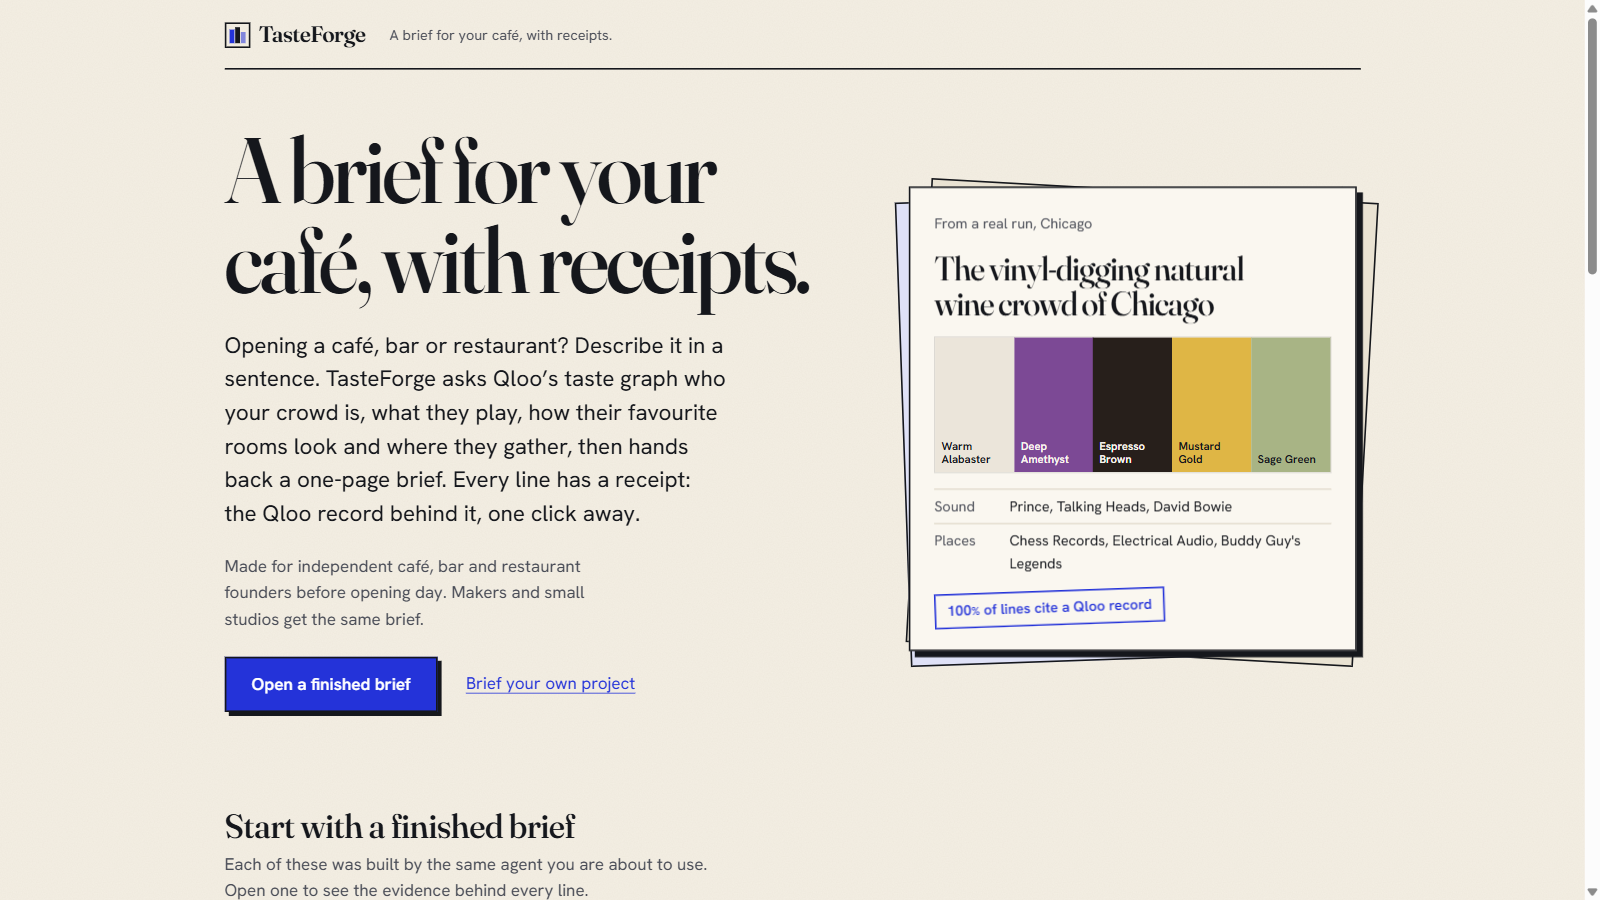
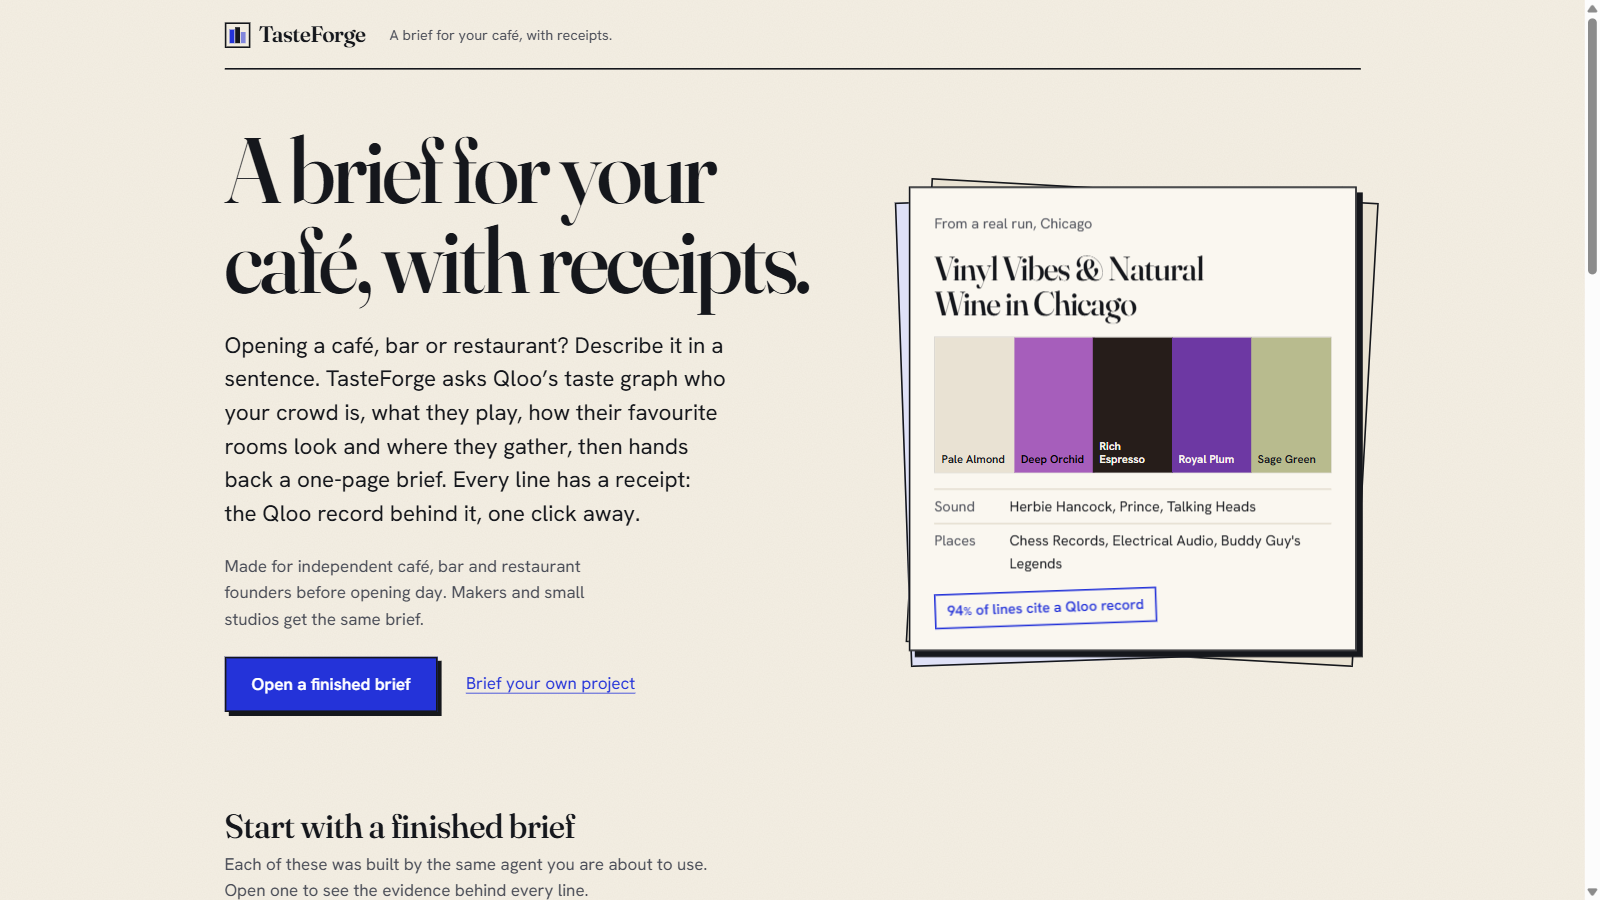
fix: palette captions never show dish tags; repair Qloo's broken possessives
Qloo returns specialty-dish tags such as "Buddy S Burger" (a signature
dish at Buddy Guy's Legends). They stay valid colour cues, but are no
longer shown as style captions; captions fall back to the cited decor and
ambience tags, and possessives are displayed correctly.

Changed region(s): [[0.5625, 0.28, 0.7812, 0.5289], [0.625, 0.56, 0.7812, 0.5911], [0.5938, 0.6533, 0.75, 0.6844]]

diff --git a/src/ui/paletteCaptions.ts b/src/ui/paletteCaptions.ts
@@ -1,11 +1,23 @@
 import { isNameLike, nameKey } from "@/lib/agent/colour/cues";
+import { fixPossessive } from "@/lib/qloo/displayName";
 import type { Evidence, Swatch } from "./contract";
 
 /** Most tags shown under one swatch. */
 export const CAPTION_TAGS = 2;
 
 const STYLE_PREFIXES = ["urn:tag:decor:", "urn:tag:ambience:"];
+/** Dish tags name a venue's signature plate ("Buddy S Burger"): fine as a colour cue, misleading as a style caption. */
+const DISH_PREFIXES = ["urn:tag:specialty_dish:"];
 const norm = (s: string): string => s.trim().toLowerCase();
+
+/** Names of the dish tags in the records a swatch cites. */
+function dishNames(swatch: Pick<Swatch, "evidence">, evidence: Readonly<Record<string, Evidence>>): Set<string> {
+  const out = new Set<string>();
+  for (const id of swatch.evidence) {
+    for (const t of evidence[id]?.tags ?? []) if (DISH_PREFIXES.some((p) => t.id.startsWith(p))) out.add(nameKey(t.name));
+  }
+  return out;
+}
 
 /** Names of the decor and ambience tags in the records a swatch cites (the tags that drive colour most directly). */
 function styleNames(swatch: Pick<Swatch, "evidence">, evidence: Readonly<Record<string, Evidence>>): Set<string> {
@@ -23,7 +35,15 @@ function styleNames(swatch: Pick<Swatch, "evidence">, evidence: Readonly<Record<
 function tagCaptionsOnly(swatch: Pick<Swatch, "tags" | "evidence">, evidence: Readonly<Record<string, Evidence>>): string[] {
   const entityNames = new Set(Object.values(evidence).flatMap((r) => (r.entities ?? []).map((e) => nameKey(e.name))));
   const cited = new Set(swatch.evidence.flatMap((id) => (evidence[id]?.tags ?? []).map((t) => nameKey(t.name))));
-  return (swatch.tags ?? []).filter((t) => (cited.size === 0 || cited.has(nameKey(t))) && !isNameLike(t, entityNames));
+  const dishes = dishNames(swatch, evidence);
+  return (swatch.tags ?? [])
+    .filter((t) => (cited.size === 0 || cited.has(nameKey(t))) && !isNameLike(t, entityNames) && !dishes.has(nameKey(t)))
+    .map(fixPossessive);
+}
+
+/** Style tag names (original casing) from the records a swatch cites: the fallback when no swatch tag qualifies. */
+function citedStyleTags(swatch: Pick<Swatch, "evidence">, evidence: Readonly<Record<string, Evidence>>): string[] {
+  return swatch.evidence.flatMap((id) => (evidence[id]?.tags ?? []).filter((t) => STYLE_PREFIXES.some((p) => t.id.startsWith(p))).map((t) => fixPossessive(t.name)));
 }
 
 /**
@@ -36,7 +56,8 @@ export function swatchCaptions(palette: readonly Pick<Swatch, "tags" | "evidence
   const shown = new Set<string>();
   return palette.map((s) => {
     const style = styleNames(s, evidence);
-    const tags = tagCaptionsOnly(s, evidence);
+    const own = tagCaptionsOnly(s, evidence);
+    const tags = own.length > 0 ? own : citedStyleTags(s, evidence);
     const ordered = [...tags.filter((t) => style.has(norm(t))), ...tags.filter((t) => !style.has(norm(t)))];
     const fresh = ordered.filter((t) => !used.has(norm(t)));
     const picked = fresh.slice(0, CAPTION_TAGS);

diff --git a/src/ui/__tests__/paletteCaptions.test.ts b/src/ui/__tests__/paletteCaptions.test.ts
@@ -30,6 +30,28 @@ describe("swatchCaptions tag-only", () => {
     const [caption] = swatchCaptions([{ tags: ["Buddy's Burger", "Smoke House", "Steak", "Industrial"], evidence: ["ev_1"] }], ev);
     expect(caption).toEqual(["Industrial", "Steak"]);
   });
+
+  it("never captions with a dish tag, even in Qloo's own spelling ('Buddy S Burger')", () => {
+    const ev = {
+      ev_1: record("ev_1", [
+        ["urn:tag:specialty_dish:place:buddy_s_burger", "Buddy S Burger"],
+        ["urn:tag:cuisine:steak", "Steak"],
+      ]),
+    } as Record<string, Evidence>;
+    const [caption] = swatchCaptions([{ tags: ["Buddy S Burger", "Steak"], evidence: ["ev_1"] }], ev);
+    expect(caption).toEqual(["Steak"]);
+  });
+
+  it("falls back to the cited decor and ambience tags when no swatch tag qualifies", () => {
+    const ev = {
+      ev_1: record("ev_1", [
+        ["urn:tag:specialty_dish:place:buddy_s_burger", "Buddy S Burger"],
+        ["urn:tag:ambience:cozy", "Cozy"],
+      ]),
+    } as Record<string, Evidence>;
+    const [caption] = swatchCaptions([{ tags: ["Buddy S Burger"], evidence: ["ev_1"] }], ev);
+    expect(caption).toEqual(["Cozy"]);
+  });
 });
 
 describe("swatchCaptions", () => {

diff --git a/docs/GALLERY.md b/docs/GALLERY.md
@@ -5,7 +5,7 @@ Upload the images in this order, all 1600×900 PNGs captured from the live site 
 | # | File | Caption (copy-paste) |
 |---|---|---|
 | 1 | `docs/media/01-home.png` | A brief for your café, with receipts: describe your place, and Qloo's taste graph tells you who it's for. |
-| 2 | `docs/media/02-brief-cover.png` | A real brief for a Chicago record-store bar. 100% of its lines cite a Qloo record; code removes anything that doesn't. |
+| 2 | `docs/media/02-brief-cover.png` | A real brief for a Chicago record-store bar. 94% of its lines cite a Qloo record; code removes anything that doesn't. |
 | 3 | `docs/media/03-the-look.png` | The look, read from the tags of real Chicago places this crowd loves. Every swatch names the tags behind it. |
 | 4 | `docs/media/04-evidence-drawer.png` | Every line has a receipt: "why" opens the exact Qloo question and what it returned. |
 | 5 | `docs/media/05-taste-proof.png` | Taste Proof: Qloo checks a plain AI answer. 4 of its 16 picks couldn't be verified in Chicago; every TasteForge pick could. |
